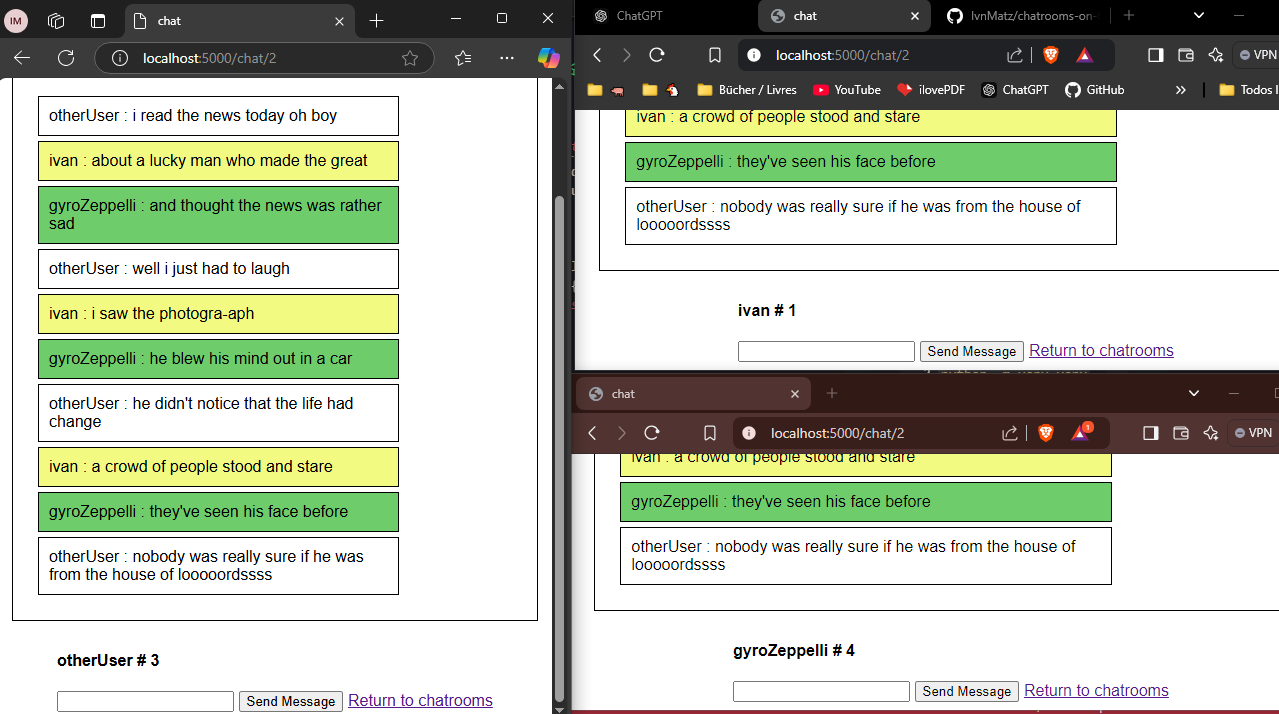
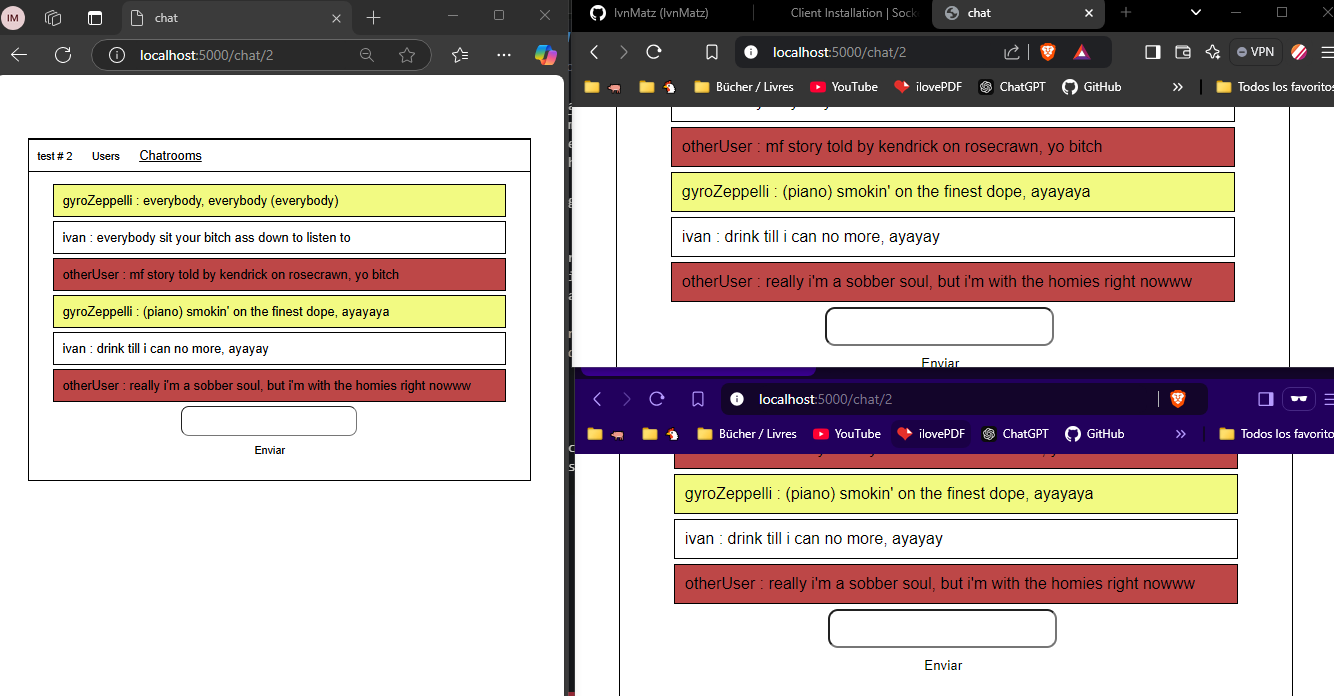
chat style

diff --git a/templates/chat.html b/templates/chat.html
@@ -7,27 +7,32 @@
     <link rel="stylesheet" href="{{ url_for('static', filename='styles/chatS.css') }}">
 </head>
 <body>
+    <h1 id="chatid">  {{chatid}} </h1>
     
 <div class="centered">
+    <div class="tabs">
+        <button id="c"> {{ chatname }} # {{chatid}} </button>
+        <button id="au"> Users </button>
+        <a href="/chatrooms"> Chatrooms </a>
+    </div>
+    
+    <div id="AddUser">
     <form id="form2" action="/add-user-to" method="POST"> 
         <input type="text" placeholder="new user's id" name="newID" autocomplete="off"> 
         <input type="hidden" value="{{ chatid }}" name="chat">
         <button type="submit"> Add new user</button> 
     </form>
-
-
-        <div class="title">
-    <h1 class="title"> {{ chatname }} #</h1>
-    <h2 id="chatid" class="title"> {{chatid}} </h2>
     </div>
+
+    <div id="chat">
     <div id="chat-box">
 
     </div>
     <div class="send">
-        <h4> {{user.username}} # {{user.id}} </h4>
         <input type="text" id="message">
-        <button onclick="sendMessage()"> Send Message </button>
-        <a href="/chatrooms"> Return to chatrooms </a>
+        <button onclick="sendMessage()"> Enviar </button>
+        
+    </div>
     </div>
 
 </div>
@@ -35,5 +40,6 @@
     <script src="{{ url_for('static', filename='js/socketio.js') }}"></script>
     <script src="{{ url_for('static', filename='js/getMsg.js') }}"></script>
     <script src="{{ url_for('static', filename='js/addUser.js') }}"></script>
+    <script src="{{ url_for('static', filename='js/chat.js') }}"></script>
 </body>
 </html>

diff --git a/static/styles/chatS.css b/static/styles/chatS.css
@@ -8,21 +8,85 @@
     place-items: center;
 }
 
-.title{
-    display: inline-block;
+.centered{
+    border: 1px solid black;
+    width: 90%;
+    margin: 10px;
+    display: block;
+    place-self: center;
+    padding-bottom: 20px;
 }
 
 #chat-box{
-    border: 1px solid black;
-    width: 90%;
-    padding: 20px;
-    margin: 10px;
+    margin: 0;
     display: block;
+    width: 100%;
+    place-items: center;
 }
 
-#chat-box div{
-    width: 70%;
+#chat-box .messages{
+    width: 100%;
     padding: 10px;
     margin: 5px;
     border: 1px solid black;
+}
+
+.chat{
+    width: 100%;
+}
+
+.send{
+    place-self: center;
+}
+
+.send *{
+    place-self: center;
+}
+
+.send input{
+    padding: 10px;
+    width: 80%;
+    border-radius: 10px;
+}
+
+.send button{
+    background-color: white;
+    width: 90%;
+    border: transparent;
+    text-align: center;
+    place-self: center;
+    padding: 10px;
+}
+
+#chatid{
+    color:white;
+}
+
+.send button:hover{
+    background-color: #93e0cd;
+    border-radius: 12px;
+}
+
+.tabs{
+    border: 1px solid black;
+    margin: 0;
+    padding: 0;
+    margin-bottom: 15px;
+    width: 100%;
+}
+
+.tabs *{
+    padding: 10px;
+    background-color: white;
+    color: black;
+    border: transparent;
+    display: inline-block;
+}
+
+.tabs *:hover{
+    background-color: #93e0cd;
+}
+
+#AddUser{
+    display: none;
 }

diff --git a/templates/chatroom.html b/templates/chatroom.html
@@ -43,16 +43,10 @@
         <div class="change-color" id="changeC">
             <h3> Change User Color </h3>
             <form id="form2" action="/change-user-color" method="POST">
-                <input type="radio" value="red" name="color" id="r">
-                <label for="r"> Red </label>
-                <input type="radio" value="black" name="color" id="b">
-                <label for="b"> black</label>
-                <input type="radio" value="green" name="color" id="g">
-                <label for="g"> green </label>
-                <input type="radio" value="yellow" name="color" id="y">
-                <label for="y"> yellow </label>
-                <input type="radio" value="white" name="color" id="w">
-                <label for="w"> white </label>
+                <input type="color" name="color" id="colorpicker">
+                <label for="colorpicker"> Background Color</label>
+                <input type="color" name="Lcolor" id="words">
+                <label for="words">  Words color </label>
                 <button type="submit"> Change </button>
             </form>
         </div>

diff --git a/static/js/getMsg.js b/static/js/getMsg.js
@@ -12,6 +12,8 @@ socket.on('message', function(msg) {
     const messageElement = document.createElement("div");
     messageElement.textContent = String(msg.username) + " : " + String(msg.message);
     messageElement.style.backgroundColor = String(msg.colorU);
+    messageElement.style.color = String(msg.Wcolor);
+    messageElement.className = "messages";
     chatBox.appendChild(messageElement);
     chatBox.scrollTop = chatBox.scrollHeight;
     } // Auto scroll hacia el último mensaje

diff --git a/static/js/chat.js b/static/js/chat.js
@@ -1,0 +1,19 @@
+const user = document.getElementById("AddUser");
+const chat = document.getElementById("chat");
+
+//buttons
+const c = document.getElementById("c");
+const au = document.getElementById("au");
+
+function showU(){
+    user.style.display="block";
+    chat.style.display="none";
+}
+
+function showC(){
+    user.style.display="none";
+    chat.style.display="block";
+}
+
+c.onclick=showC;
+au.onclick=showU;

diff --git a/postRoutes.py b/postRoutes.py
@@ -79,17 +79,10 @@ def Cchat():
 @routesbp.route('/change-user-color', methods=['POST'])
 def changeColor():
     color = request.form['color']
-
-    if str(color) == 'red':
-        session['color'] = "#bd4747"
-    elif str(color) == 'black':
-        session['color'] = "#474747"
-    elif str(color) == 'green':
-        session['color'] = "#6ecc6b"
-    elif str(color) == 'yellow':
-        session['color'] = "#f2fa82"
-    elif str(color) == 'white':
-        session['color'] = "#ffffff"
+    Lcolor = request.form['Lcolor']
+    print(color)
+    session['color'] = str(color)
+    session['Wcolor'] = str(Lcolor)
     
     return jsonify({'message' : 'color changed'})
 

diff --git a/main.py b/main.py
@@ -83,10 +83,11 @@ def handle_message(msg):
         'username' : session['username'],
         'message' : str(msg.get("msg")),
         'channel' : int(msg.get("channel")),
-        'colorU' : session['color']
+        'colorU' : session['color'],
+        'Wcolor' : session['Wcolor']
     }
     send(message, broadcast=True)
 
 if __name__ == '__main__':
-    socketio.run(app, host="0.0.0.0", port=5000)
-    #socketio.run(app, debug=True)
+    #socketio.run(app, host="0.0.0.0", port=5000)
+    socketio.run(app, debug=True)

diff --git a/README.md b/README.md
@@ -1,14 +1,13 @@
 # Multiples Chatrooms
 ![image](/doc_img/chatCap2.PNG)
 Un manejador de chatrooms con multiples usuarios, cada uno puede crear un chat con otro usuario y a partir de ahí empezar una conversación. No guarda un historial de mensajes y no tengo interés en agregarle un sistema para ello.
+## Features
+- 👥 **Multiples chats** : Cada usuario puede crear varios chats, inicialmente solo será con otro usuario aunque después puede añadir a los que quiera.
+- 🎨 **colores** : Puedes escoger de que color serán tus mensajes.
 ## Setup
 1. Python, MS SQL Server y ODBC Driver 18 instalados en el dispositivo.
 2. Ejecutar las consultas de ```tableQuerys.sql```
-3. ```python -m venv venv ```
-4. ```pip install -r requeriments.txt```
-5. ```py main.py```
-6. listo
-## To-Do de mejoras
-- [ ] CSS responsivo
-- [ ] Mejorar documentación
-- [ ] chatrooms grupales
+3. instalar Flask, flask-socketio y pyodbc desde pip.
+4. ```py main.py```
+5. listo
+
